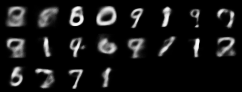
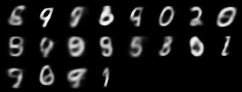
#commit 18 : Change acivation / Hparam Tune
Add Batchnorm and modified activation of AAE and ARAE, and tune their hyperparameters

diff --git a/config.py b/config.py
@@ -15,7 +15,9 @@ def config_args(args, conf):
         args.nhidden = 1000
         args.nDhidden = 500
         args.lr_ae = 1e-04
-        args.lr_disc = 5e-05
+        args.lr_D = 1e-05
+        args.lr_G = 1e-05
+        args.niters_gan_schedule = None
 
     elif conf == 3:
         args.model = 'arae'
@@ -25,6 +27,10 @@ def config_args(args, conf):
         args.nhidden = 1000
         args.nDhidden = 500
         args.nGhidden = 500
+        args.lr_ae = 1e-04
+        args.lr_D = 1e-05
+        args.lr_G = 1e-05
+        args.niters_gan_schedule = None
 
     elif conf == 4:
         args.model = 'vqvae'
@@ -43,6 +49,8 @@ def config_args(args, conf):
         args.dataset = 'snli'
         args.nlatent = 300
         args.nhidden = 300
+        args.lr_ae = 1
+        args.lr_adv = 1
 
 
     elif conf == 6:
@@ -51,6 +59,8 @@ def config_args(args, conf):
         args.nlatent = 300
         args.nDhidden = 300
         args.niters_gan_d = 5
+        args.lr_ae = 1
+        args.lr_adv = 1
 
     elif conf == 7:
         args.model = 'lstmarae'
@@ -60,6 +70,8 @@ def config_args(args, conf):
         args.nDhidden = 300
         args.nGhidden = 300
         args.niters_gan_d = 5
+        args.lr_ae = 1
+        args.lr_adv = 1
 
     elif conf == 8:
         args.model = 'lstmvqvae'
@@ -67,6 +79,8 @@ def config_args(args, conf):
         args.nlatent = 300
         args.nembdim = 300
         args.nemb = 512
+        args.lr_ae = 1
+        args.lr_adv = 1
 
     else:
         raise NameError

diff --git a/models/arae.py b/models/arae.py
@@ -51,20 +51,20 @@ class ARAE(nn.Module):
 
         # Discriminator
         self.disc = nn.Sequential(
-            nn.Linear(self.nlatent, 500),
+            nn.Linear(self.nlatent, self.nDhidden),
             nn.ReLU(),
-            nn.Linear(500, 500),
+            nn.Linear(self.nDhidden, self.nDhidden),
             nn.ReLU(),
-            nn.Linear(500, 1),
-            nn.Sigmoid()
+            nn.Linear(self.nDhidden, 1),
         )
 
         # Generator
         self.gen = nn.Sequential(
-            nn.Linear(self.nnoise, 500),
+            nn.Linear(self.nnoise, self.nGhidden),
             nn.ReLU(),
-            nn.Linear(500, self.nlatent),
-            nn.ReLU(),
+            nn.Linear(self.nGhidden, self.nGhidden),
+            nn.BatchNorm1d(self.nGhidden, eps=1e-15, momentum=0.1),
+            nn.Linear(self.nGhidden, self.nlatent),
         )
 
         # Epsilon to prevent 0

diff --git a/main.py b/main.py
@@ -364,7 +364,7 @@ if __name__ == "__main__":
     parser.add_argument('--epochs', type=int, default=20, help='The maximum number of epochs')
     parser.add_argument('--batch_size', type=int, default=128, help='The number of batch size')
     parser.add_argument('--lr_ae', type=float, default=1e-4, help='Learning rate of Autoencoder')
-    parser.add_argument('--lr_adv', type=float, default=5e-5, help='Learning rate of encoder with adversarial loss')
+    parser.add_argument('--lr_adv', type=float, default=1e-4, help='Learning rate of encoder with adversarial loss')
     parser.add_argument('--lr_D', type=float, default=5e-5, help='Learning rate of Discriminator')
     parser.add_argument('--lr_G', type=float, default=5e-5, help='Learning rate of Generator')
     parser.add_argument('--anneal_function', type=str, default='logistic', help='kl annealing function; [logistic]') # Add other functions

diff --git a/models/aae.py b/models/aae.py
@@ -53,7 +53,6 @@ class AAE(nn.Module):
             nn.Linear(self.nDhidden, self.nDhidden),
             nn.ReLU(),
             nn.Linear(self.nDhidden, 1),
-            torch.nn.Sigmoid()
         )
 
         # Epsilon to prevent 0
